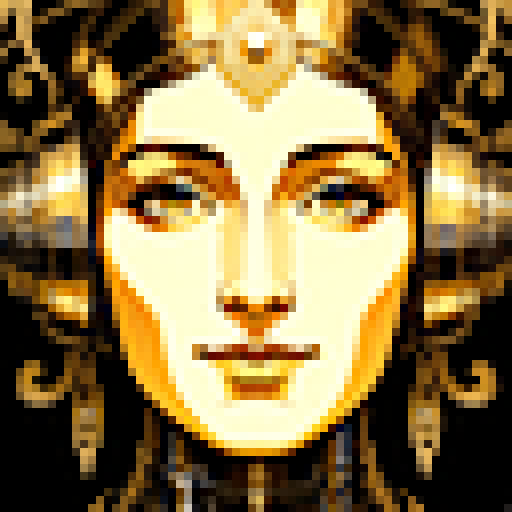
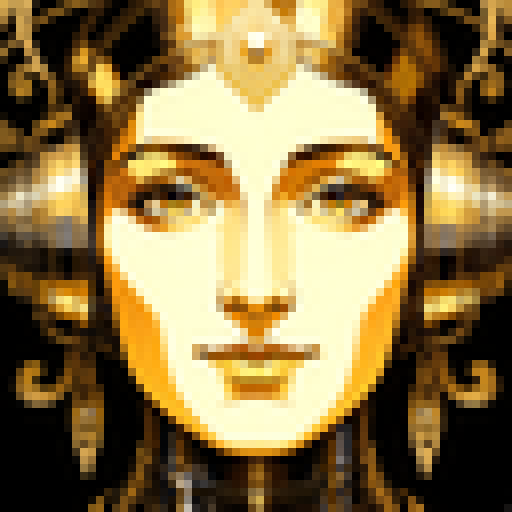
fix(avatar7): Ada back to her first face, auras softer
Ada keeps her unsharpened portrait, no wind, no aura. Auras light only
the background (luminance under 0.14) at 0.35 by default, they painted
the hair.

Claude-Session: https://claude.ai/code/session_01YDtNr9qWsdjQPBoo94eHYo

diff --git a/avatar7/hooks/register.tsx b/avatar7/hooks/register.tsx
@@ -14,6 +14,11 @@ const AVATARS = ['shodan', 'hal', 'glados', 'ada', 'duck7', 'pod042', 'kaneda', 
 const W = 64
 // Seconds the rolling band takes to cross the face once.
 const BAND_SECONDS = 4
+// The aura lights only what is darker than this (luminance, 0 to 1), at this
+// strength unless the persona says otherwise: a glow in the background, not
+// a coat of paint on the hair.
+const AURA_DARK = 0.14
+const AURA_STRENGTH = 0.35
 const H = 64
 const MIN_SIZE = 16
 
@@ -182,7 +187,7 @@ export const windShift = (w: Wind, x: number, y: number, t: number): number => {
 
 // Aura: a ring of light in the dark around the figure, flickering by angle
 // like a flame. Returns its strength, 0 to 1.
-export type Aura = { color: string; radius: number; width: number; y?: number }
+export type Aura = { color: string; radius: number; width: number; y?: number; strength?: number }
 export const auraGlow = (a: Aura, x: number, y: number, t: number): number => {
   const dx = x - W / 2
   const dy = y - (a.y ?? H / 2)
@@ -244,12 +249,12 @@ export const register: Register = (on, options) => {
     // The aura shows on the dark only, so the face keeps its own colors.
     if (who.look?.aura !== undefined) {
       const lum = (0.3 * r + 0.59 * g + 0.11 * b) / 255
-      if (lum < 0.22) {
-        const glow = auraGlow(who.look.aura, x, y, t) * (1 - lum / 0.22)
+      if (lum < AURA_DARK) {
+        const glow = auraGlow(who.look.aura, x, y, t) * (1 - lum / AURA_DARK) * (who.look.aura.strength ?? AURA_STRENGTH)
         const c = parseInt(who.look.aura.color.slice(1), 16)
-        r += ((c >> 16) & 0xff) * glow * 0.8
-        g += ((c >> 8) & 0xff) * glow * 0.8
-        b += (c & 0xff) * glow * 0.8
+        r += ((c >> 16) & 0xff) * glow
+        g += ((c >> 8) & 0xff) * glow
+        b += (c & 0xff) * glow
       }
     }
 

diff --git a/avatar7/README.md b/avatar7/README.md
@@ -188,7 +188,8 @@ mush, crop tighter or re-render with more contrast.
 
 | id | box |
 | --- | --- |
-| shodan, ada | `112 100 912 900` |
+| shodan | `112 100 912 900` |
+| ada | `112 100 912 900 --sharpen 0` (a pale face, kept soft) |
 | hal | `150 150 874 874` |
 | duck7 | none (full frame) |
 | pod042 | `64 20 960 916` |
